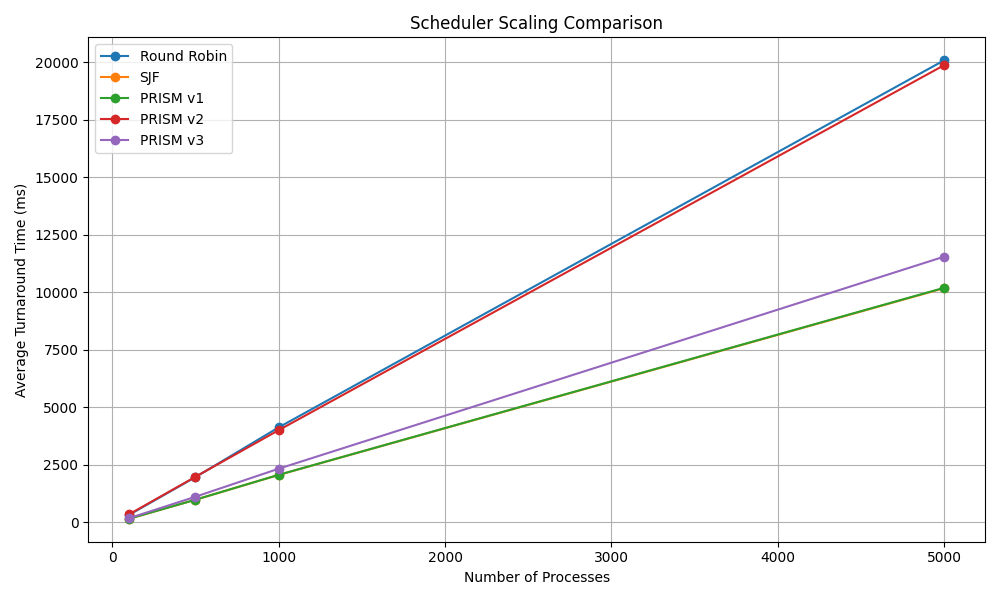
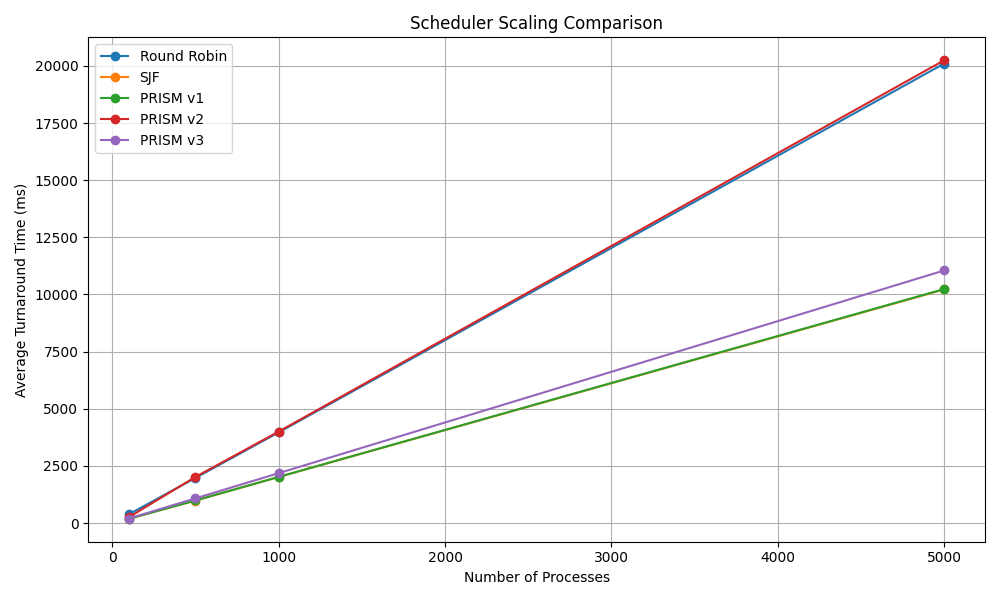
day 3 which changes update the paper and results. The commit message should be concise and descriptive of the changes made.

diff --git a/main.py b/main.py
@@ -11,6 +11,18 @@ from sklearn.metrics import accuracy_score
 if not os.path.exists('results'):
     os.makedirs('results')
 
+P_IO_MAP = {
+    'cpu_bound': 0.2,
+    'io_bound': 0.6,
+    'mixed': 0.4
+}
+
+MARKOV_MULTIPLIER_MAP = {
+    'short': 0.8,
+    'medium': 1.0,
+    'long': 1.3
+}
+
 def generate_processes(num_processes=200):
     """
     Generates synthetic processes for the Day 1 simulation.
@@ -40,6 +52,13 @@ def get_burst_state(burst):
     elif burst <= 15: return 1 # medium
     else: return 2 # long
 
+def state_idx_to_label(state_idx):
+    if state_idx == 0:
+        return 'short'
+    if state_idx == 1:
+        return 'medium'
+    return 'long'
+
 def build_markov_chain(processes):
     # Build a 3x3 transition matrix from the generated processes
     transitions = np.zeros((3, 3))
@@ -57,16 +76,14 @@ def build_markov_chain(processes):
             transitions[i] = np.array([1/3, 1/3, 1/3])
     return transitions
 
-def predict_markov_burst(curr_burst, transitions):
-    # Predict the next state and convert to expected burst time
+def predict_markov_state(curr_burst, transitions):
+    # Predict next Markov burst category: short / medium / long
     curr_state = get_burst_state(curr_burst)
     probs = transitions[curr_state]
-    predicted_state = np.argmax(probs)
-    if predicted_state == 0: return 3.0
-    elif predicted_state == 1: return 8.0
-    else: return 20.0
+    predicted_state_idx = int(np.argmax(probs))
+    return state_idx_to_label(predicted_state_idx)
 
-def train_rf_classifier(processes):
+def train_rf_classifier(processes, verbose=True):
     # Features: burst_time, io_probability, priority
     # Label: process_type
     X = [[p['burst_time'], p['io_probability'], p['priority']] for p in processes]
@@ -79,8 +96,15 @@ def train_rf_classifier(processes):
     
     y_pred = clf.predict(X_test)
     acc = accuracy_score(y_test, y_pred)
-    print(f"Random Forest Classifier Accuracy: {acc*100:.2f}%")
+    if verbose:
+        print(f"Random Forest Classifier Accuracy: {acc*100:.2f}%")
     return clf
+
+def classifier_to_p_io(clf, process):
+    # Explicitly map RF class output to P_io coefficient
+    features = [[process['burst_time'], process['io_probability'], process['priority']]]
+    predicted_class = clf.predict(features)[0]
+    return P_IO_MAP.get(predicted_class, 0.4)
 
 def run_round_robin(processes_input, quantum=4):
     """
@@ -218,11 +242,17 @@ def run_prism_v2(processes_input, transitions):
     processes = [p.copy() for p in processes_input]
     for p in processes:
         p['remaining_time'] = p['burst_time']
-        # 1. Use Markov predicted burst time for queue ordering
-        pred_burst = predict_markov_burst(p['burst_time'], transitions)
+        # v2 keeps Markov-only burst category estimate for queue ordering
+        state_label = predict_markov_state(p['burst_time'], transitions)
+        if state_label == 'short':
+            pred_burst = 3.0
+        elif state_label == 'medium':
+            pred_burst = 8.0
+        else:
+            pred_burst = 20.0
         p['predicted_burst'] = pred_burst
-        # 2. Apply scheduling score logic: score = predicted_burst * (1 + io_probability) * (1/priority)
-        p['prism_score'] = pred_burst * (1 + p['io_probability']) * (1.0 / p['priority'])
+        # Fixed priority denominator to avoid divide-by-zero edge cases
+        p['prism_score'] = pred_burst * (1 + p['io_probability']) * (1.0 / (p['priority'] + 1))
         
     time = 0
     ready_queue = []
@@ -255,9 +285,9 @@ def run_prism_v2(processes_input, transitions):
     return completed, context_switches
 
 def predict_lstm_burst(actual_burst, previous_error):
-    # Simulate LSTM feature extraction using simple numpy weighted average
-    # Simulate the last 5 burst times of this process by adding noise
-    # Weights: [0.1, 0.15, 0.2, 0.25, 0.3] (recent = higher weight)
+    # LSTM-inspired weighted burst predictor.
+    # Uses recency-weighted history, approximating LSTM temporal behavior without
+    # backpropagation. Full LSTM via PyTorch planned for future work.
     history = [max(0.1, actual_burst + random.uniform(-0.5, 0.5) * actual_burst) for _ in range(5)]
     weights = np.array([0.1, 0.15, 0.2, 0.25, 0.3])
     predicted_burst = np.dot(history, weights)
@@ -267,21 +297,34 @@ def predict_lstm_burst(actual_burst, previous_error):
     adjusted_prediction = predicted_burst + (previous_error * learning_rate)
     return max(0.1, adjusted_prediction)
 
-def run_prism_v3(processes_input):
+def run_prism_v3(processes_input, transitions, clf):
     """
-    PRISM Scheduler (Version 3 - LSTM Predictor + Online Learning)
+    PRISM Scheduler (Version 3 - Markov + RF + LSTM-inspired Predictor)
     """
     processes = [p.copy() for p in processes_input]
     previous_error = 0.0
     
     for p in processes:
         p['remaining_time'] = p['burst_time']
-        pred_burst = predict_lstm_burst(p['burst_time'], previous_error)
-        p['predicted_burst'] = pred_burst
-        p['prism_score'] = pred_burst * (1 + p['io_probability']) * (1.0 / p['priority'])
+        # Layer 1: Markov predicted state -> multiplier
+        markov_state = predict_markov_state(p['burst_time'], transitions)
+        markov_multiplier = MARKOV_MULTIPLIER_MAP[markov_state]
+
+        # Layer 3: LSTM-inspired burst estimate
+        lstm_prediction = predict_lstm_burst(p['burst_time'], previous_error)
+
+        # Coupled Layer 1 + Layer 3
+        b_pred = lstm_prediction * markov_multiplier
+        p['predicted_burst'] = b_pred
+
+        # Layer 2: RF classifier -> explicit P_io mapping
+        p_io = classifier_to_p_io(clf, p)
+
+        # Final score: B_pred * (1 + P_io) * (1/(priority + 1))
+        p['prism_score'] = b_pred * (1 + p_io) * (1.0 / (p['priority'] + 1))
         
         # Update error for next prediction
-        error = p['burst_time'] - pred_burst
+        error = p['burst_time'] - b_pred
         previous_error = error
         
     time = 0
@@ -321,9 +364,54 @@ def jains_fairness_index(completed):
         return 0
     return (np.sum(turnarounds)**2) / (n * np.sum(turnarounds**2))
 
+def compute_metrics(completed, switches):
+    avg_ta = float(np.mean([p['turnaround_time'] for p in completed]))
+    avg_wt = float(np.mean([p['waiting_time'] for p in completed]))
+    total_burst = float(sum([p['burst_time'] for p in completed]))
+    max_finish = float(max([p['arrival_time'] + p['turnaround_time'] for p in completed]))
+    min_arrival = float(min([p['arrival_time'] for p in completed]))
+    cpu_util = (total_burst / (max_finish - min_arrival)) * 100 if max_finish > min_arrival else 0.0
+    fairness = float(jains_fairness_index(completed))
+    return {
+        'avg_turnaround': avg_ta,
+        'avg_waiting': avg_wt,
+        'context_switches': int(switches),
+        'cpu_utilization': cpu_util,
+        'fairness_index': fairness
+    }
+
+def print_summary_table(metrics, order):
+    print("\n=== Day 3 Scheduler Metrics Summary (n=1000) ===")
+    header = (
+        f"{'Scheduler':<12} | {'Avg Turnaround Time (ms)':<24} | {'Avg Waiting Time (ms)':<21} | "
+        f"{'Context Switches':<16} | {'CPU Utilization %':<17} | {'Jain Fairness Index':<19}"
+    )
+    print(header)
+    print("-" * len(header))
+    for name in order:
+        m = metrics[name]
+        print(
+            f"{name:<12} | {m['avg_turnaround']:<24.2f} | {m['avg_waiting']:<21.2f} | "
+            f"{m['context_switches']:<16} | {m['cpu_utilization']:<17.2f} | {m['fairness_index']:<19.4f}"
+        )
+
+def add_value_labels(ax):
+    for bar in ax.patches:
+        height = bar.get_height()
+        ax.annotate(
+            f"{height:.2f}",
+            (bar.get_x() + bar.get_width() / 2, height),
+            ha='center',
+            va='bottom',
+            fontsize=8,
+            rotation=90,
+            xytext=(0, 2),
+            textcoords='offset points'
+        )
+
 def main():
-    print("Generating 200 synthetic processes...")
-    processes = generate_processes(200)
+    print("Generating 1000 synthetic processes...")
+    processes = generate_processes(1000)
     
     print("Training ML Models...")
     transitions = build_markov_chain(processes)
@@ -334,7 +422,7 @@ def main():
     sjf_result, sjf_switches = run_sjf(processes)
     prism1_result, prism1_switches = run_prism_v1(processes)
     prism2_result, prism2_switches = run_prism_v2(processes, transitions)
-    prism3_result, prism3_switches = run_prism_v3(processes)
+    prism3_result, prism3_switches = run_prism_v3(processes, transitions, clf)
     
     metrics = {}
     results_list = [
@@ -347,58 +435,73 @@ def main():
     
     csv_data = []
     
-    print("\n=== Scheduler Metrics Summary ===")
-    print(f"{'Scheduler':<15} | {'Avg TA':<10} | {'Avg WT':<10} | {'Switches':<10} | {'CPU Util %':<10} | {'Fairness':<10}")
-    print("-" * 85)
+    scheduler_order = ['RR', 'SJF', 'PRISM_v1', 'PRISM_v2', 'PRISM_v3']
     
+    label_map = {
+        'Round Robin': 'RR',
+        'SJF': 'SJF',
+        'PRISM v1': 'PRISM_v1',
+        'PRISM v2': 'PRISM_v2',
+        'PRISM v3': 'PRISM_v3'
+    }
+
     for name, completed, switches in results_list:
-        avg_ta = np.mean([p['turnaround_time'] for p in completed])
-        avg_wt = np.mean([p['waiting_time'] for p in completed])
-        total_burst = sum([p['burst_time'] for p in completed])
-        max_finish = max([p['arrival_time'] + p['turnaround_time'] for p in completed])
-        min_arrival = min([p['arrival_time'] for p in completed])
-        cpu_util = (total_burst / (max_finish - min_arrival)) * 100
-        fairness = jains_fairness_index(completed)
-        
-        metrics[name] = {
-            'avg_turnaround': avg_ta,
-            'avg_waiting': avg_wt,
-            'context_switches': switches,
-            'cpu_utilization': cpu_util,
-            'fairness_index': fairness
-        }
-        
-        print(f"{name:<15} | {avg_ta:<10.2f} | {avg_wt:<10.2f} | {switches:<10} | {cpu_util:<10.2f}% | {fairness:<10.4f}")
-        csv_data.append([name, avg_ta, avg_wt, switches, cpu_util, fairness])
+        key = label_map[name]
+        metrics[key] = compute_metrics(completed, switches)
+        csv_data.append([
+            key,
+            metrics[key]['avg_turnaround'],
+            metrics[key]['avg_waiting'],
+            metrics[key]['context_switches'],
+            metrics[key]['cpu_utilization'],
+            metrics[key]['fairness_index']
+        ])
+
+    print_summary_table(metrics, scheduler_order)
         
     # Plotting
-    schedulers = list(metrics.keys())
+    schedulers = scheduler_order
     turnaround = [metrics[s]['avg_turnaround'] for s in schedulers]
     waiting = [metrics[s]['avg_waiting'] for s in schedulers]
     switches = [metrics[s]['context_switches'] for s in schedulers]
     utilization = [metrics[s]['cpu_utilization'] for s in schedulers]
-    
-    fig, axs = plt.subplots(1, 4, figsize=(20, 5))
-    colors = ['blue', 'orange', 'green', 'red', 'purple']
-    
+    fairness = [metrics[s]['fairness_index'] for s in schedulers]
+
+    fig, axs = plt.subplots(1, 5, figsize=(26, 5.5))
+    colors = ['#1f77b4', '#ff7f0e', '#2ca02c', '#d62728', '#9467bd']
+
     axs[0].bar(schedulers, turnaround, color=colors)
-    axs[0].set_title('Avg Turnaround Time')
+    axs[0].set_title('Average Turnaround Time')
     axs[0].set_ylabel('ms')
-    
+    axs[0].set_xlabel('Scheduler')
+    add_value_labels(axs[0])
+
     axs[1].bar(schedulers, waiting, color=colors)
-    axs[1].set_title('Avg Waiting Time')
+    axs[1].set_title('Average Waiting Time')
     axs[1].set_ylabel('ms')
-    
+    axs[1].set_xlabel('Scheduler')
+    add_value_labels(axs[1])
+
     axs[2].bar(schedulers, switches, color=colors)
-    axs[2].set_title('Total Context Sw.')
-    
+    axs[2].set_title('Total Context Switches')
+    axs[2].set_ylabel('count')
+    axs[2].set_xlabel('Scheduler')
+    add_value_labels(axs[2])
+
     axs[3].bar(schedulers, utilization, color=colors)
-    axs[3].set_title('CPU Utilization %')
+    axs[3].set_title('CPU Utilization')
     axs[3].set_ylabel('%')
-    
-    for ax in axs.flat:
-        ax.set_xticks(range(len(schedulers)))
-        ax.set_xticklabels(schedulers, rotation=15, ha='right')
+    axs[3].set_xlabel('Scheduler')
+    add_value_labels(axs[3])
+
+    axs[4].bar(schedulers, fairness, color=colors)
+    axs[4].set_title("Jain's Fairness Index")
+    axs[4].set_ylabel('index')
+    axs[4].set_xlabel('Scheduler')
+    add_value_labels(axs[4])
+
+    for ax in axs:
+        ax.tick_params(axis='x', rotation=20)
         
     plt.tight_layout()
     plt.savefig('results/day3_comparison.png')
@@ -407,7 +510,7 @@ def main():
     # Save CSV
     with open('results/day3_results.csv', 'w', newline='') as f:
         writer = csv.writer(f)
-        writer.writerow(['Scheduler', 'Avg_Turnaround', 'Avg_Waiting', 'Context_Switches', 'CPU_Utilization', 'Fairness_Index'])
+        writer.writerow(['Scheduler', 'Avg_TAT', 'Avg_Wait', 'Context_Switches', 'CPU_Util', 'Fairness_Index'])
         writer.writerows(csv_data)
     print("Saved results to results/day3_results.csv")
 
@@ -425,12 +528,13 @@ def main():
         print(f"Testing scale n={n}...")
         ps = generate_processes(n)
         trans = build_markov_chain(ps)
+        rf_clf = train_rf_classifier(ps, verbose=False)
         
         rr_c, _ = run_round_robin(ps, quantum=4)
         sjf_c, _ = run_sjf(ps)
         p1_c, _ = run_prism_v1(ps)
         p2_c, _ = run_prism_v2(ps, trans)
-        p3_c, _ = run_prism_v3(ps)
+        p3_c, _ = run_prism_v3(ps, trans, rf_clf)
         
         scale_results['Round Robin'].append(np.mean([p['turnaround_time'] for p in rr_c]))
         scale_results['SJF'].append(np.mean([p['turnaround_time'] for p in sjf_c]))
